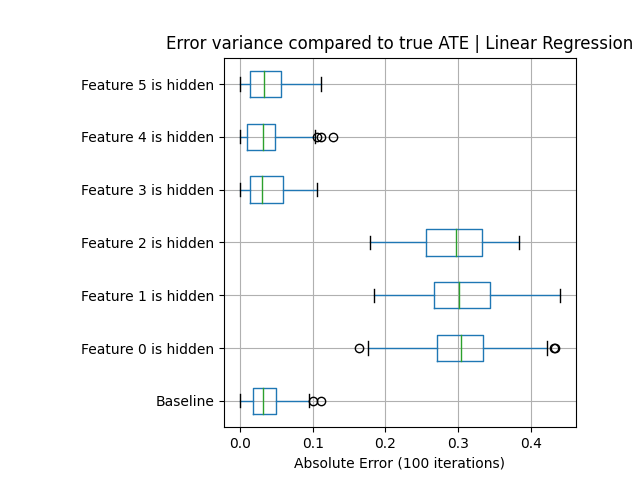
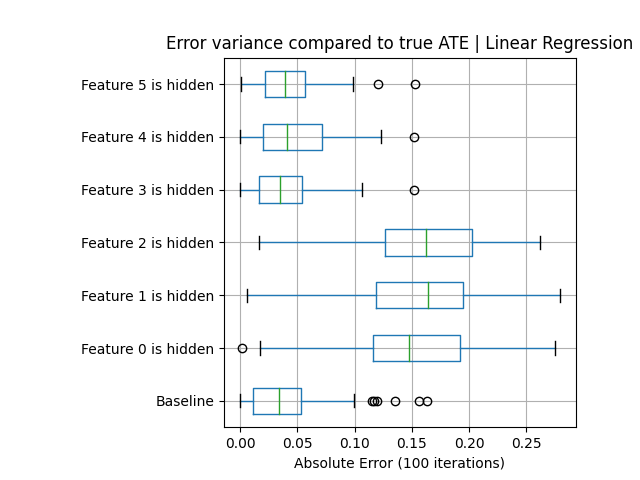
change data to N(1,1)

diff --git a/scripts/main.py b/scripts/main.py
@@ -1,6 +1,7 @@
 import os
 import time
 import warnings
+from os import popen
 
 from tqdm import tqdm
 from sklearn import linear_model
@@ -71,63 +72,15 @@ def generate_ehv_bar_plot(data, labelx="", save=True):
         plt.show()
 
 
-def generate_basic_data(population, dimensions=5, gt_ate=1, save=True):
+def generate_basic_data(population, dimensions=6, gt_ate=1, save=True):
     feature_function = lambda xs: np.sum(xs)
     main_effect = lambda xs: feature_function(xs)
     treatment_effect = lambda xs: feature_function(xs) + gt_ate
     treatment_propensity = lambda xs: sigmoid(feature_function(xs) + np.random.normal())
     noise = lambda: np.random.normal()
     treatment_function = lambda p, n: np.random.binomial(1, p)
-    outcome_function = lambda me, t, te, n: me + te * t + n
-    f_distribution = [lambda: 0.5 * np.random.normal()]
-    g = Generator(main_effect, treatment_effect, treatment_propensity, noise, lambda xs: 0, treatment_function,
-                  outcome_function, dimensions, f_distribution, name=f"basic_{dimensions}f")
-    df = g.generate_data(population, save_data=save)
-    # print("Data generation done")
-    return df
-
-
-def generate_f4me_data(population, dimensions=5, gt_ate=1, save=True):
-    feature_function = lambda xs: np.sum(xs)
-    main_effect = lambda xs: feature_function(xs)
-    treatment_effect = lambda xs: feature_function(xs[:dimensions - 1]) + gt_ate
-    treatment_propensity = lambda xs: sigmoid(feature_function(xs[:dimensions - 1]) + np.random.normal())
-    noise = lambda: np.random.normal()
-    treatment_function = lambda p, n: np.random.binomial(1, p)
-    outcome_function = lambda me, t, te, n: me + te * t + n
-    f_distribution = [lambda: 0.5 * np.random.normal()]
-    g = Generator(main_effect, treatment_effect, treatment_propensity, noise, lambda xs: 0, treatment_function,
-                  outcome_function, dimensions, f_distribution, name=f"basic_{dimensions}f")
-    df = g.generate_data(population, save_data=save)
-    # print("Data generation done")
-    return df
-
-
-def generate_f4te_data(population, dimensions=5, gt_ate=1, save=True):
-    feature_function = lambda xs: np.sum(xs)
-    main_effect = lambda xs: feature_function(xs[:dimensions - 1])
-    treatment_effect = lambda xs: feature_function(xs) + gt_ate
-    treatment_propensity = lambda xs: sigmoid(feature_function(xs[:dimensions - 1]) + np.random.normal())
-    noise = lambda: np.random.normal()
-    treatment_function = lambda p, n: np.random.binomial(1, p)
-    outcome_function = lambda me, t, te, n: me + te * t + n
-    f_distribution = [lambda: 0.5 * np.random.normal()]
-    g = Generator(main_effect, treatment_effect, treatment_propensity, noise, lambda xs: 0, treatment_function,
-                  outcome_function, dimensions, f_distribution, name=f"basic_{dimensions}f")
-    df = g.generate_data(population, save_data=save)
-    # print("Data generation done")
-    return df
-
-
-def generate_f4tp_data(population, dimensions=5, gt_ate=1, save=True):
-    feature_function = lambda xs: np.sum(xs)
-    main_effect = lambda xs: feature_function(xs[:dimensions - 1])
-    treatment_effect = lambda xs: feature_function(xs[:dimensions - 1]) + gt_ate
-    treatment_propensity = lambda xs: sigmoid(feature_function(xs) + np.random.normal())
-    noise = lambda: np.random.normal()
-    treatment_function = lambda p, n: np.random.binomial(1, p)
-    outcome_function = lambda me, t, te, n: me + te * t + n
-    f_distribution = [lambda: 0.5 * np.random.normal()]
+    outcome_function = lambda me, t, te, n: me + te * (t - 0.5) + n
+    f_distribution = [lambda: np.random.normal(1, 1)]
     g = Generator(main_effect, treatment_effect, treatment_propensity, noise, lambda xs: 0, treatment_function,
                   outcome_function, dimensions, f_distribution, name=f"basic_{dimensions}f")
     df = g.generate_data(population, save_data=save)
@@ -142,8 +95,8 @@ def generate_3cv_3ncf_data(population, dimensions=6, gt_ate=1, save=False):
     treatment_propensity = lambda xs: sigmoid(feature_function(xs[0:3]) + np.random.normal())
     noise = lambda: np.random.normal()
     treatment_function = lambda p, n: np.random.binomial(1, p)
-    outcome_function = lambda me, t, te, n: me + te * t + n
-    f_distribution = [lambda: 0.5 * np.random.normal()]
+    outcome_function = lambda me, t, te, n: me + te * (t - 0.5) + n
+    f_distribution = [lambda: 0.5 * np.random.normal(1, 1)]
     g = Generator(main_effect, treatment_effect, treatment_propensity, noise, lambda xs: 0, treatment_function,
                   outcome_function, dimensions, f_distribution, name=f"basic_{dimensions}f")
     df = g.generate_data(population, save_data=save)
@@ -151,15 +104,15 @@ def generate_3cv_3ncf_data(population, dimensions=6, gt_ate=1, save=False):
     return df
 
 
-def generate_ff_halfsum_data(population, dimensions=5, gt_ate=1, save=True):
+def generate_ff_halfsum_data(population, dimensions=6, gt_ate=1, save=True):
     feature_function = lambda xs: np.sum(xs[: int(len(xs) / 2 + 1)])
     main_effect = lambda xs: feature_function(xs)
     treatment_effect = lambda xs: feature_function(xs) + gt_ate
     treatment_propensity = lambda xs: sigmoid(feature_function(xs) + np.random.normal())
     noise = lambda: np.random.normal()
     treatment_function = lambda p, n: np.random.binomial(1, p)
-    outcome_function = lambda me, t, te, n: me + te * t + n
-    f_distribution = [lambda: 0.5 * np.random.normal()]
+    outcome_function = lambda me, t, te, n: me + te * (t - 0.5) + n
+    f_distribution = [lambda: 0.5 * np.random.normal(1, 1)]
     g = Generator(main_effect, treatment_effect, treatment_propensity, noise, lambda xs: 0, treatment_function,
                   outcome_function, dimensions, f_distribution, name=f"basic_{dimensions}f")
     df = g.generate_data(population, save_data=save)
@@ -167,65 +120,20 @@ def generate_ff_halfsum_data(population, dimensions=5, gt_ate=1, save=True):
     return df
 
 
-def generate_ff_prod_data(population, dimensions=5, gt_ate=1, save=True):
+def generate_ff_prod_data(population, dimensions=6, gt_ate=1, save=True):
     feature_function = lambda xs: np.prod(xs)
     main_effect = lambda xs: feature_function(xs)
     treatment_effect = lambda xs: feature_function(xs) + gt_ate
     treatment_propensity = lambda xs: sigmoid(feature_function(xs) + np.random.normal())
     noise = lambda: np.random.normal()
     treatment_function = lambda p, n: np.random.binomial(1, p)
-    outcome_function = lambda me, t, te, n: me + te * t + n
-    f_distribution = [lambda: 0.5 * np.random.normal()]
+    outcome_function = lambda me, t, te, n: me + te * (t - 0.5) + n
+    f_distribution = [lambda: 0.5 * np.random.normal(1, 1)]
     g = Generator(main_effect, treatment_effect, treatment_propensity, noise, lambda xs: 0, treatment_function,
                   outcome_function, dimensions, f_distribution, name=f"basic_{dimensions}f")
     df = g.generate_data(population, save_data=save)
     # print("Data generation done")
     return df
-
-
-def generate_l1_ome_data(population, dimensions=5, gt_ate=1):
-    feature_function = lambda xs: np.sum(xs)
-    main_effect = lambda xs: feature_function(xs)
-    treatment_effect = lambda xs: feature_function(xs[:dimensions - 1]) + gt_ate
-    treatment_propensity = lambda xs: sigmoid(feature_function(xs[:dimensions - 1]) + np.random.normal())
-    noise = lambda: np.random.normal()
-    treatment_function = lambda p, n: np.random.binomial(1, p)
-    outcome_function = lambda me, t, te, n: me + te * t + n
-    f_distribution = [lambda: 0.5 * np.random.normal()]
-    g = Generator(main_effect, treatment_effect, treatment_propensity, noise, lambda xs: 0, treatment_function,
-                  outcome_function, dimensions, f_distribution, name=f"l1_ome_{dimensions}f")
-    g.generate_data(population)
-    print("Data generation done")
-
-
-def generate_l1_ote_data(population, dimensions=5, gt_ate=1):
-    feature_function = lambda xs: np.sum(xs)
-    main_effect = lambda xs: feature_function(xs[:dimensions - 1])
-    treatment_effect = lambda xs: feature_function(xs) + gt_ate
-    treatment_propensity = lambda xs: sigmoid(feature_function(xs[:dimensions - 1]) + np.random.normal())
-    noise = lambda: np.random.normal()
-    treatment_function = lambda p, n: np.random.binomial(1, p)
-    outcome_function = lambda me, t, te, n: me + te * t + n
-    f_distribution = [lambda: 0.5 * np.random.normal()]
-    g = Generator(main_effect, treatment_effect, treatment_propensity, noise, lambda xs: 0, treatment_function,
-                  outcome_function, dimensions, f_distribution, name=f"l1_ote_{dimensions}f")
-    g.generate_data(population)
-    print("Data generation done")
-
-
-def generate_l1_otp_data(population, dimensions=5, gt_ate=1):
-    feature_function = lambda xs: np.sum(xs)
-    main_effect = lambda xs: feature_function(xs[:dimensions - 1])
-    treatment_effect = lambda xs: feature_function(xs[:dimensions - 1]) + gt_ate
-    treatment_propensity = lambda xs: sigmoid(feature_function(xs) + np.random.normal())
-    noise = lambda: np.random.normal()
-    treatment_function = lambda p, n: np.random.binomial(1, p)
-    outcome_function = lambda me, t, te, n: me + te * t + n
-    f_distribution = [lambda: 0.5 * np.random.normal()]
-    g = Generator(main_effect, treatment_effect, treatment_propensity, noise, lambda xs: 0, treatment_function,
-                  outcome_function, dimensions, f_distribution, name=f"l1_otp_{dimensions}f")
-    g.generate_data(population)
-    print("Data generation done")
 
 
 def generate_6evh_data(population, dimensions=6, gt_ate=1, save=False):
@@ -234,8 +142,8 @@ def generate_6evh_data(population, dimensions=6, gt_ate=1, save=False):
     treatment_propensity = lambda xs: sigmoid(xs[0] + xs[1] + xs[2] + xs[5] + np.random.normal())
     noise = lambda: np.random.normal()
     treatment_function = lambda p, n: np.random.binomial(1, p)
-    outcome_function = lambda me, t, te, n: me + te * t + n
-    f_distribution = [lambda: 0.5 * np.random.normal()]
+    outcome_function = lambda me, t, te, n: me + te * (t - 0.5) + n
+    f_distribution = [lambda: 0.5 * np.random.normal(1, 1)]
     g = Generator(main_effect, treatment_effect, treatment_propensity, noise, lambda xs: 0, treatment_function,
                   outcome_function, dimensions, f_distribution, name=f"basic_{dimensions}f")
     df = g.generate_data(population, save_data=save)
@@ -243,9 +151,10 @@ def generate_6evh_data(population, dimensions=6, gt_ate=1, save=False):
     return df
 
 
-def experiment_number_of_hidden_variables_ATE(df, dimensions=5, gt_ate=1):
+def experiment_number_of_hidden_variables_ATE(df, dimensions=6):
     psm = PropensityScoreMatching()
     number_hidden_variables = 0
+    gt_ate = getATE(df)
     results = {}
     for fdl in groupedFeaturePowerset(dimensions):
         ires = []
@@ -259,7 +168,7 @@ def experiment_number_of_hidden_variables_ATE(df, dimensions=5, gt_ate=1):
     return results
 
 
-def experiment_effect_of_hidden_variables_ATE(df, gt, dimensions=6, lr=False):
+def experiment_effect_of_hidden_variables_ATE(df, dimensions=6, lr=False):
     psm = PropensityScoreMatching()
     results = {}
     all_f = getFeatureDict(dimensions)
@@ -270,12 +179,12 @@ def experiment_effect_of_hidden_variables_ATE(df, gt, dimensions=6, lr=False):
             psm_ate = psm.estimate_ATE(df, "treatment", "outcome", fd) if (not lr) else estimate_ATE_Linear_Regression(
                 df,
                 fd)
-        results[f'feature_{i}'] = np.abs(psm_ate - gt)
+        results[f'feature_{i}'] = np.abs(psm_ate - getATE(df))
 
     return results
 
 
-def generate_common_missing_variables(i=100, ex_features=None, f_dimensions=6, gt=1):
+def generate_common_missing_variables(i=100, ex_features=None, f_dimensions=6):
     if ex_features is None:
         ex_features = []
     psm = PropensityScoreMatching()
@@ -285,8 +194,9 @@ def generate_common_missing_variables(i=100, ex_features=None, f_dimensions=6, g
     res = []
     for x in tqdm(range(i)):
         with HiddenPrints():
-            psm_ate = psm.estimate_ATE(generate_3cv_3ncf_data(2500, save=False), "treatment", "outcome", fd)
-        res.append(np.abs(psm_ate - gt))
+            df = generate_3cv_3ncf_data(2500, save=False)
+            psm_ate = psm.estimate_ATE(df, "treatment", "outcome", fd)
+        res.append(np.abs(psm_ate - getATE(df)))
     return res
 
 
@@ -311,7 +221,7 @@ def estimate_ATE_Linear_Regression(df, fd):
     return res
 
 
-def generate_common_missing_variables_linear_regression(i=100, ex_features=None, f_dimensions=6, gt=1):
+def generate_common_missing_variables_linear_regression(i=100, ex_features=None, f_dimensions=6):
     if ex_features is None:
         ex_features = []
     fd = getFeatureDict(f_dimensions)
@@ -320,8 +230,9 @@ def generate_common_missing_variables_linear_regression(i=100, ex_features=None,
     res = []
     for x in tqdm(range(i)):
         with HiddenPrints():
-            lr_ate = estimate_ATE_Linear_Regression(generate_3cv_3ncf_data(2500, save=False), fd)
-        res.append(np.abs(lr_ate - gt))
+            df = generate_3cv_3ncf_data(2500, save=False)
+            lr_ate = estimate_ATE_Linear_Regression(df, fd)
+        res.append(np.abs(lr_ate - getATE(df)))
     return res
 
 
@@ -375,7 +286,6 @@ def experiment_common_missing_variables_ATE_LR(i=100):
 
 def evh_final(iterations=100, lr=False):
     f_dimensions = 6
-    trueATE = 1
     pop = 2500
 
     labels = ['f_0', 'f_1', 'f_2', 'f_3', 'f_4', 'f_5']
@@ -383,8 +293,8 @@ def evh_final(iterations=100, lr=False):
     res = []
     for x in tqdm(range(iterations)):
         res.append(list(experiment_effect_of_hidden_variables_ATE(
-            generate_6evh_data(population=pop, dimensions=f_dimensions, gt_ate=trueATE, save=False),
-            gt=trueATE, dimensions=f_dimensions, lr=lr).values()))
+            generate_6evh_data(population=pop, dimensions=f_dimensions, save=False),
+            dimensions=f_dimensions, lr=lr).values()))
 
     res = np.array(res).mean(axis=0)
 
@@ -398,13 +308,14 @@ def evh_final(iterations=100, lr=False):
     plt.show()
 
 
-def enhv_final():
-    res_sum = {0: 0.028011694277565558, 1: 0.29120315354215814, 2: 0.5822664872520664, 3: 0.8418340820445402,
-               4: 1.088108762834208, 5: 1.3296631577041529}
-    res_halfsum = {0: 0.05336224742631979, 1: 0.19907319028230752, 2: 0.356746262364021, 3: 0.5117188249007243,
-                   4: 0.6515336231382258, 5: 0.8205361686045007}
-    res_prod = {0: 0.03589294726036518, 1: 0.04044396377735471, 2: 0.04803591514946497, 3: 0.04173829717406647,
-                4: 0.050202417936116524, 5: 0.03865739188555739}
+def enhv_final(dim=6):
+    pop = 2500
+    res_sum = experiment_number_of_hidden_variables_ATE(generate_basic_data(pop, dimensions=dim, save=False),
+                                                        dimensions=dim)
+    res_halfsum = experiment_number_of_hidden_variables_ATE(generate_ff_halfsum_data(pop, dimensions=dim, save=False),
+                                                            dimensions=dim)
+    res_prod = experiment_number_of_hidden_variables_ATE(generate_ff_prod_data(pop, dimensions=dim, save=False),
+                                                         dimensions=dim)
 
     plt.plot(res_sum.keys(), res_sum.values(), label="A")
     plt.plot(res_halfsum.keys(), res_halfsum.values(), label="B")
@@ -413,9 +324,12 @@ def enhv_final():
     plt.xlabel("Number of hidden variables")
     plt.ylabel("RMSE")
     plt.legend()
-    # plt.show()
+    plt.show()
 
 
 if __name__ == '__main__':
     # data = pd.read_csv("data/data_dump_common_8f/generated_dataSun_May_29_19-55-12_2022.csv")
-    evh_final(1, lr=False)
+    f_dimensions = 5
+    pop = 2500
+
+    enhv_final(6)
